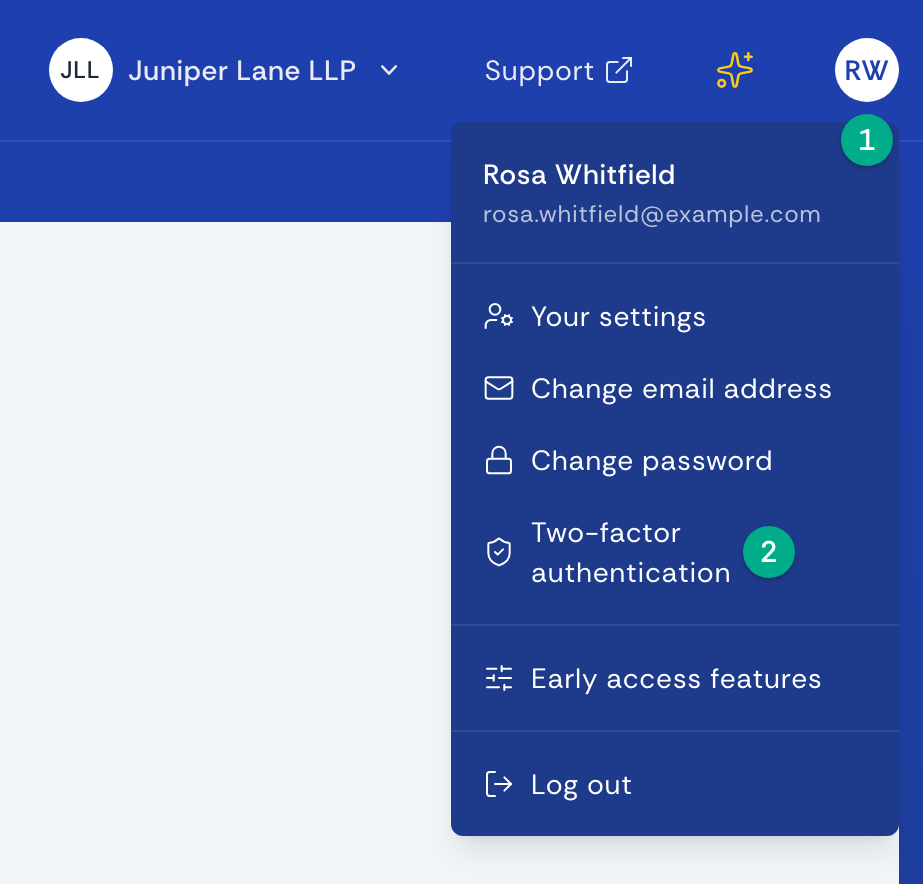
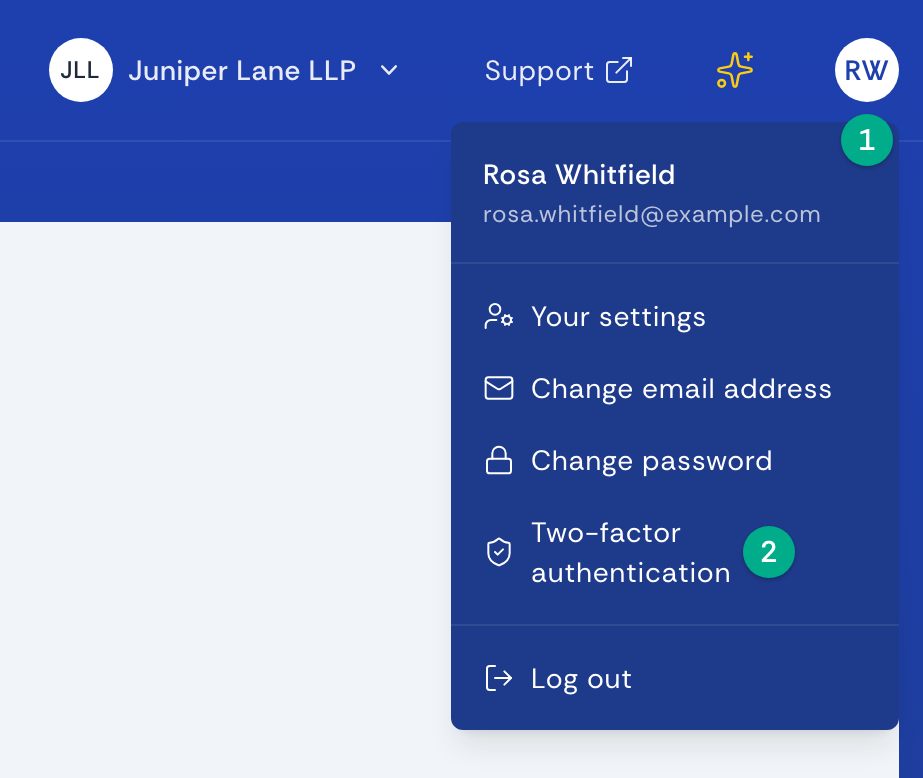
Bring the support docs in line with Capture and Bank Rec
An audit of the docs against Capture's and Bank Rec's code found
labels the products no longer use, behaviour the docs didn't mention,
and billing and GuidedMatch rules the portal no longer follows.

Labels now match the products (Reconcile now, Check now, Organisation
prefix, Client submission and others), and the Bank Rec access steps
follow the portal's own Add new clients page. The billing, feedback
and GuidedMatch pages follow the billing rules: a reported SmartMatch
is free only at 90% confidence or above, and GuidedMatch runs only
where SmartMatch is enabled.

- Edge cases the product already explains, such as refusal messages
  and connection banners, stay out of the docs.
- Ending a Xero connection is described by the 97-day rule alone,
  following Xero's recommendation, not by subscription status.
- The two user menu screenshots are retaken from the portal's demo
  practice, and the QuickBooks Online "New" badge is retired.

diff --git a/.claude/rules/support-withotto-content.md b/.claude/rules/support-withotto-content.md
@@ -53,7 +53,7 @@ import mySettings from "@assets/capture/getting-started/configuring-clients/clie
 **Always use absolute, site-root-relative paths**: the slug exactly as it appears under `src/content/docs/`, prefixed with `/` and ending in `/`, before any `#fragment`. This follows the trailing-slash rule in `.claude/rules/shared/voice-common.md`. No `.mdx` extension, no hard-coded `https://support.withotto.app`.
 
 ```md
-[Connecting Xero](/capture/getting-started/connecting-xero/)
+[Connecting Xero](/capture/platforms/xero/)
 [Feedback](/bank-rec/guides/feedback/)
 [SmartMatch confidence](/bank-rec/guides/smartmatch/#confidence)
 [Fixed or uncapped billing](/bank-rec/portal/settings/#billing-type)
